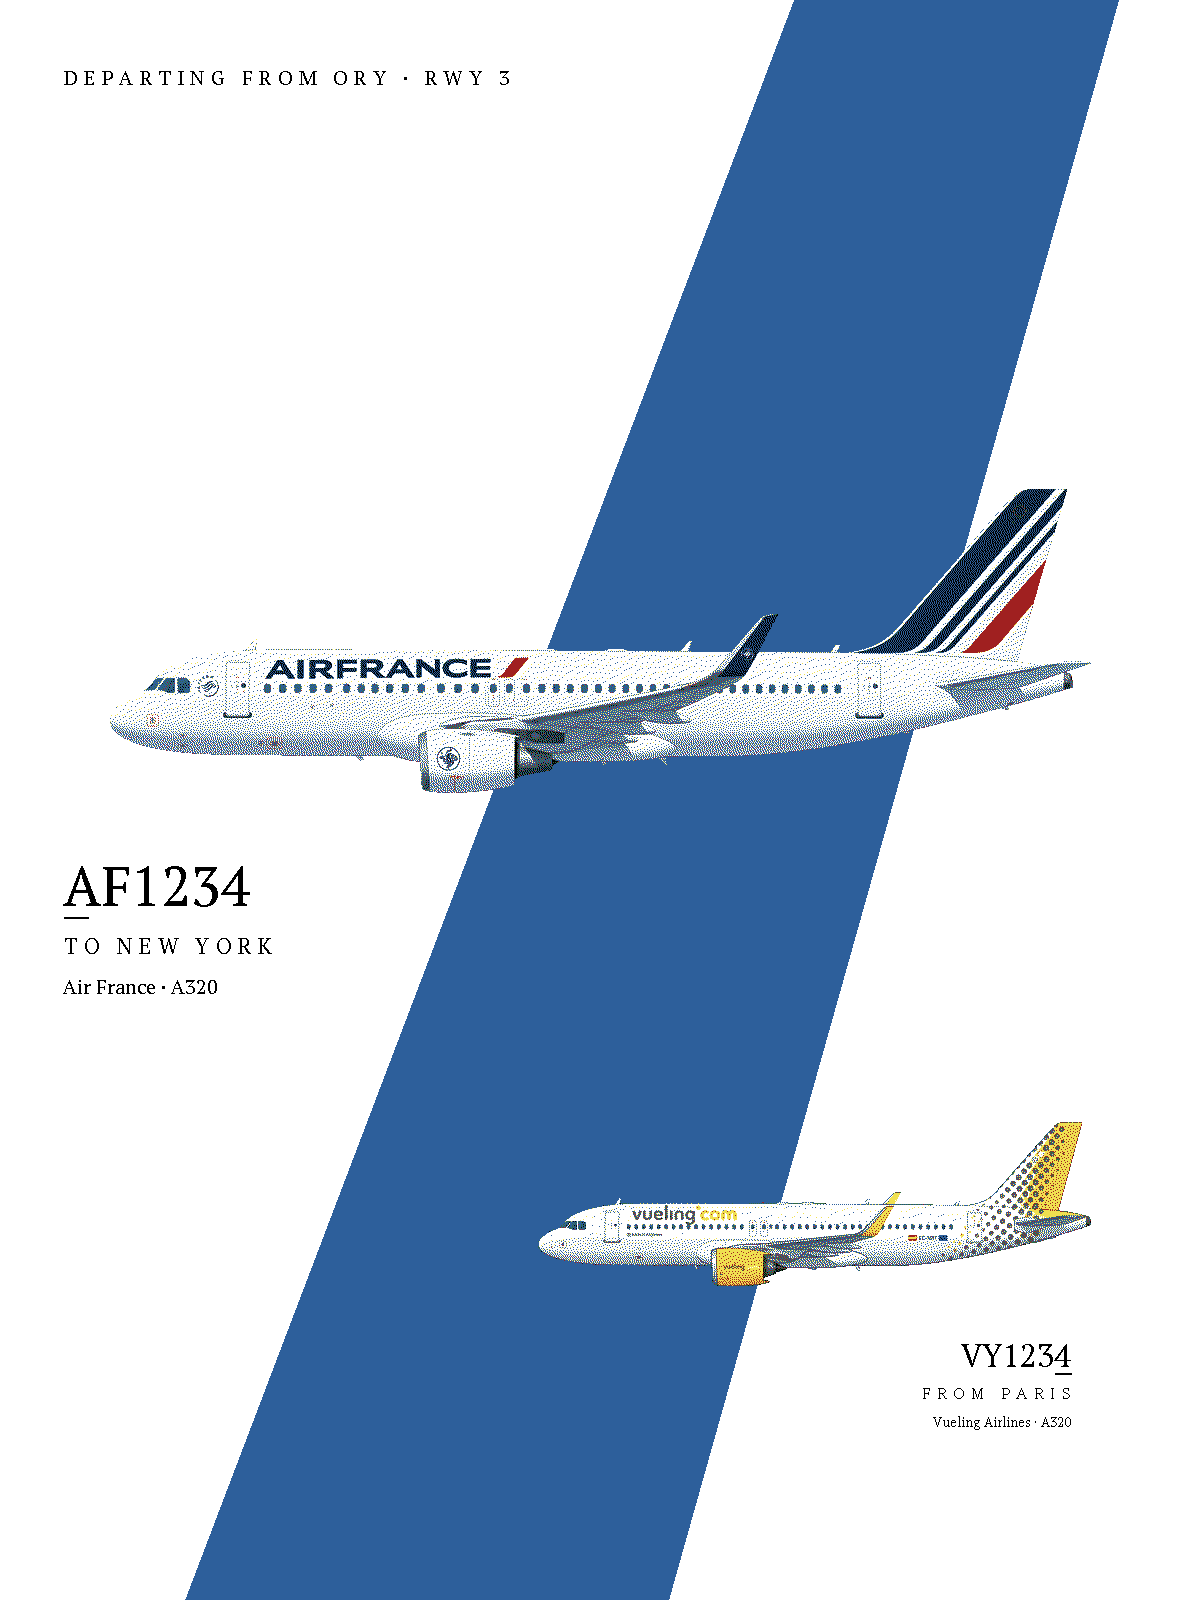
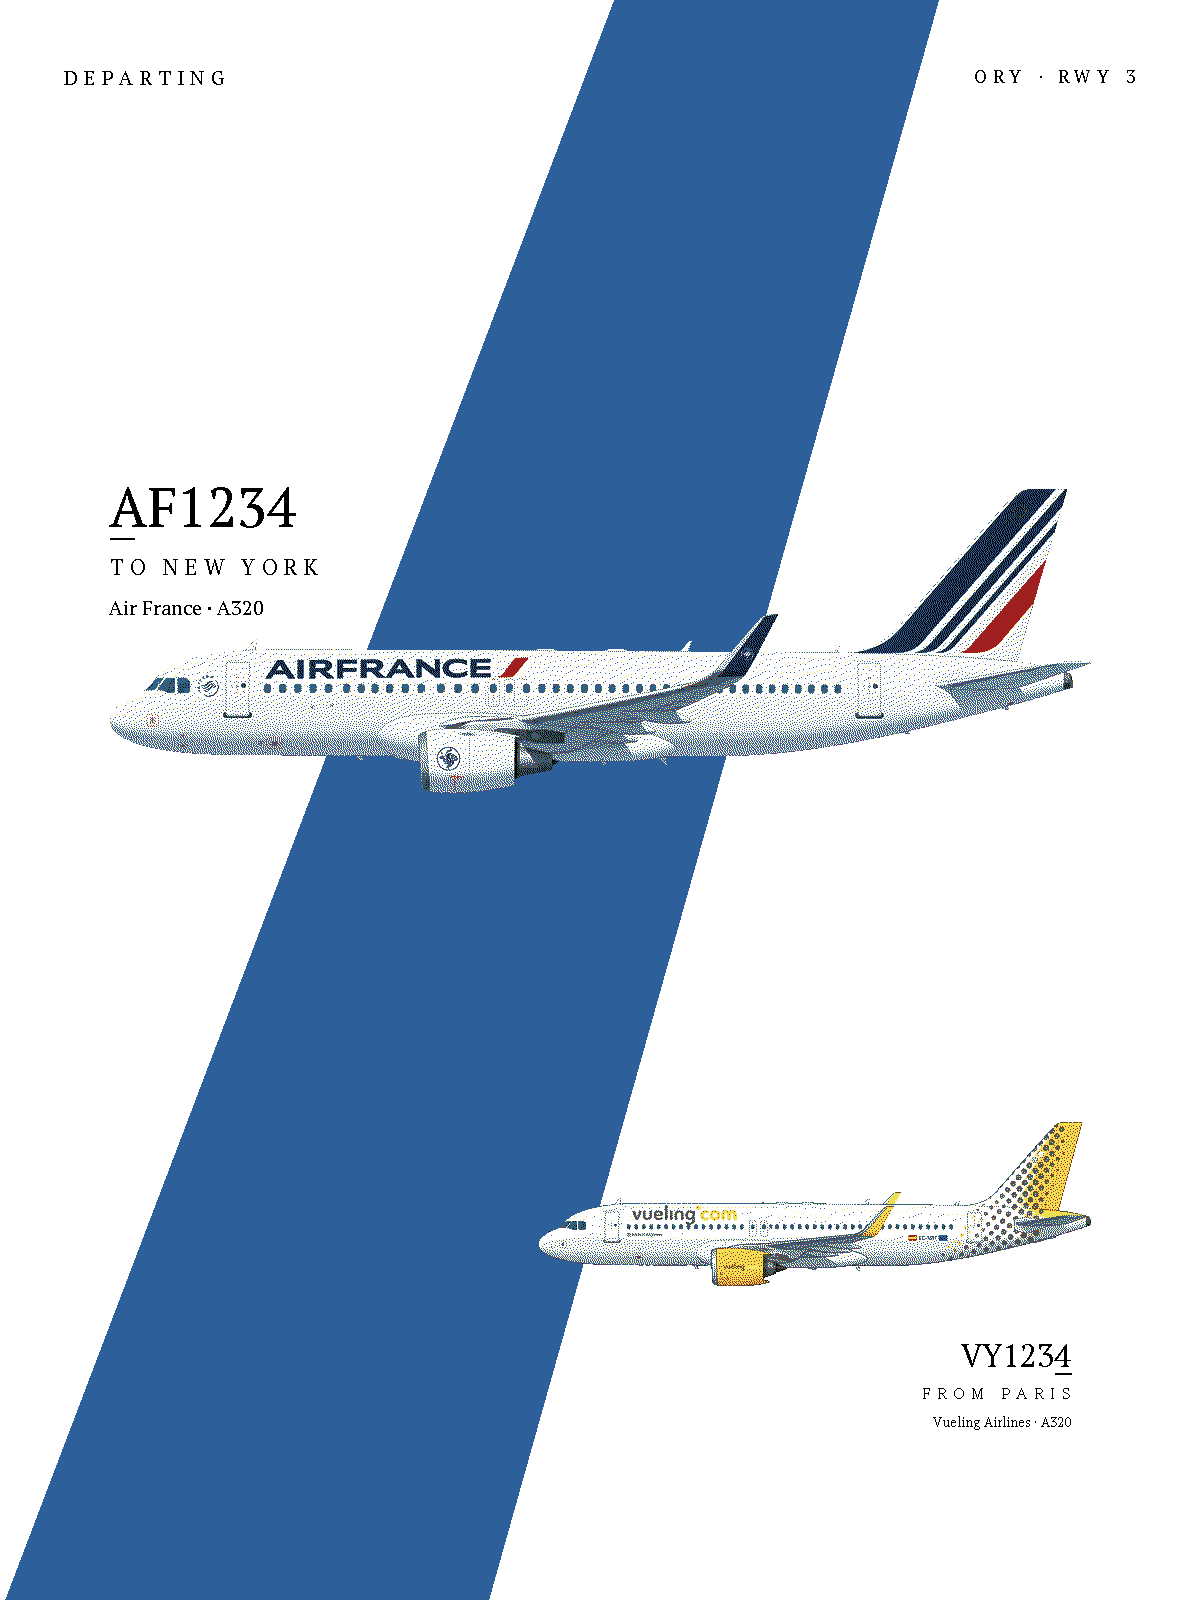
docs(spike-003): restore tag, nose-align text - catch and fix the reopened conflict
Developer: un-merge the top labels (RWY 3 back to its own tag), shift
the band left again (less than round 3), nose-align the main text
block. Un-merging is a pure revert of round 7's patch. Nose alignment
uses main_placement.content[0] directly - safe here since a side-view
nose is a filled shape, not the thin spike the tail tip was vertically.

Found before presenting anything: round 8 (text below) + round 9 (nose-
aligned, tag restored) together reopen the band collision - verified
numerically (band left edge ~24.5% vs text right edge ~33% at that
height), confirmed visually on black-flat (text genuinely cut). No
single BAND_SHIFT_FRAC clears both the tag and the below-position text
at once - the trapezoid's shape makes them mutually exclusive there.
Moved main text back above the illustration (round 5's anchor) - verified
numerically first, then visually on both blue-dithered and black-flat.

diff --git a/.planning/spikes/003-diagonal-band-theme/explore_full_composition.py b/.planning/spikes/003-diagonal-band-theme/explore_full_composition.py
@@ -64,14 +64,14 @@ TEST_PREV_ROUTE = {
 }
 
 # --- Band geometry, measured from the reference (trapezoid, not a parallelogram) ---
-# Round 7 (developer's new proposal): merge the top-right runway tag INTO
-# the top-left state label ("DEPARTING FROM ORY · RWY 3") instead of
-# shifting the band away from the tag - once nothing occupies the
-# top-right corner, the band is free to shift back right, further right
-# than the reference's own unshifted position even (BAND_SHIFT_FRAC=0
-# was the as-measured reference position; +0.08 goes past it). Still a
-# pure translation of the measured trapezoid, same width/shape.
-BAND_SHIFT_FRAC = 0.08
+# Round 9 (developer): un-merge the top labels again - RWY 3 goes back to
+# its own top-right tag - so the band needs to clear it once more, just
+# less drastically than round 3's -0.09: a smaller leftward shift keeps
+# more of round 7/8's rightward visual balance while still clearing the
+# tag's measured start (x_frac=0.8117) with a real margin. -0.07 puts the
+# band's top-right edge at 0.7823, a ~2.9pt margin. Still a pure
+# translation of the measured trapezoid, same width/shape.
+BAND_SHIFT_FRAC = -0.07
 BAND_TOP_LEFT_FRAC = 0.5818 + BAND_SHIFT_FRAC
 BAND_TOP_RIGHT_FRAC = 0.8523 + BAND_SHIFT_FRAC
 BAND_BOT_LEFT_FRAC = max(0.0, 0.0742 + BAND_SHIFT_FRAC)
@@ -191,7 +191,15 @@ def _fuselage_visual_top_y(route, aircraft_type, main_placement):
 
 def patched_draw_main_text_block(canvas, flight, state, route, main_placement, ink_idx, bg_idx, weight):
     draw = ImageDraw.Draw(canvas)
-    left_x = render.MARGIN
+    # Round 9 (developer): align the text block's left edge to the
+    # aircraft's own nose, not the canvas margin - main_placement.content[0]
+    # is the illustration's leftmost OPAQUE pixel column, i.e. the nose
+    # tip itself, the same ".content" (not ".rect") bbox every other
+    # measurement in this pipeline already trusts for "where the aircraft
+    # actually is" (unlike the vertical top edge, a side-view nose is a
+    # filled, rounded shape, not a thin spike, so this is a safe reuse -
+    # no separate width-profile analysis needed here).
+    left_x = main_placement.content[0]
 
     # The real content ladder, called verbatim - same functions, same
     # data, same never-shows-the-raw-callsign guarantee production uses.
@@ -229,16 +237,32 @@ def patched_draw_main_text_block(canvas, flight, state, route, main_placement, i
     route_font = render._role_font(ROUTE_LINE_FONT, weight)
     airline_font = render._role_font(AIRLINE_LINE_FONT, weight)
 
-    # Round 8 (developer): back below the illustration, now that round 7's
-    # merged top label freed the band to shift right instead of left -
-    # checked the band's position at this text block's height range
-    # (~50-55% canvas height): it now spans ~39-73% width, well clear of
-    # this left-anchored block's ~5-30% extent. No collision to dodge
-    # anymore, so no need for round 2/5's above-illustration workaround
-    # (or its measure-before-place / fuselage-visual-top machinery) -
-    # this is the real production draw_main_text_block()'s own anchor,
-    # MAIN_TEXT_GAP_PX below the illustration's opaque bottom edge.
-    y = main_placement.content[3] + render.MAIN_TEXT_GAP_PX
+    # Round 10 (developer): round 8 moved this block back below the
+    # illustration once round 7 freed the band to shift right - but round
+    # 9 un-merged the top labels again (band shifted back left, -0.07) AND
+    # nose-aligned this block's left edge (content[0] instead of MARGIN),
+    # and that combination reopens the collision round 8 had just closed:
+    # verified numerically, the band's left edge at this block's
+    # below-illustration height (~52% canvas height) sits at ~24.5% width,
+    # while the nose-aligned block's own right edge reaches ~33% - a real
+    # ~8pt overlap, confirmed visually on black-flat (text genuinely cut).
+    # There is no single BAND_SHIFT_FRAC that clears both the restored tag
+    # (needs the band pushed left) and this below-position nose-aligned
+    # text (needs the band pushed right) at once - the trapezoid's own
+    # shape makes the two constraints mutually exclusive here. Back above
+    # the illustration (round 5's fuselage-visual-top anchor, not
+    # content[1]) resolves both at once - verified numerically, band left
+    # edge stays 38-46% across that height range, clear of the
+    # nose-aligned block's ~35% max extent.
+    total_h = 0
+    if number_text:
+        total_h += draw.textbbox((0, 0), number_text, font=num_font, anchor="la")[3] + DASH_GAP + 2 + DASH_GAP + 4
+    if tracked_text:
+        total_h += render._tracked_text_bbox(route_font, (0, 0), tracked_text, render.LABEL_TRACKING_PX)[3] + 12
+    total_h += draw.textbbox((0, 0), plain_text, font=airline_font, anchor="la")[3]
+
+    fuselage_top_y = _fuselage_visual_top_y(route, flight.get("aircraft_type"), main_placement)
+    y = fuselage_top_y - ABOVE_ILLUSTRATION_GAP_PX - total_h
     first_bbox = None
 
     if number_text:
@@ -335,7 +359,6 @@ def patched_draw_previous_text_block(canvas, flight, state, route, prev_placemen
 def main():
     orig_draw_main_text_block = render.draw_main_text_block
     orig_draw_previous_text_block = render.draw_previous_text_block
-    orig_draw_top_labels = render.draw_top_labels
     candidates = [
         ("ref-band-blue-dithered", pf.IDX_BLUE, True),
         ("ref-band-blue-flat", pf.IDX_BLUE, False),
@@ -346,7 +369,9 @@ def main():
     try:
         render.draw_main_text_block = patched_draw_main_text_block
         render.draw_previous_text_block = patched_draw_previous_text_block
-        render.draw_top_labels = patched_draw_top_labels
+        # Round 9: top labels un-merged - the real, already-shipped
+        # draw_top_labels() (state label + separate tracked runway tag)
+        # runs unpatched again.
         for label, band_idx, dithered in candidates:
             pf.new_canvas = make_patched_new_canvas(band_idx, dithered)
             canvas = render.build_canvas(
@@ -366,7 +391,6 @@ def main():
     finally:
         render.draw_main_text_block = orig_draw_main_text_block
         render.draw_previous_text_block = orig_draw_previous_text_block
-        render.draw_top_labels = orig_draw_top_labels
         pf.new_canvas = _TRUE_ORIG_NEW_CANVAS
 
 

diff --git a/.planning/spikes/003-diagonal-band-theme/README.md b/.planning/spikes/003-diagonal-band-theme/README.md
@@ -9,7 +9,7 @@ validates: |
   build_canvas() pipeline, then at least one reads well on a 6-colour
   e-ink panel, passes the real _assert_legal_palette() background-
   dominance guard rail, and does not collide with any text.
-verdict: PENDING - round 8 moves the main card's text back below the aircraft (safe now the band shifted right), awaiting developer reaction
+verdict: PENDING - round 9 restores the tag/nose-aligns text, caught and fixed a real conflict this reopened (main text moved back above), awaiting developer reaction
 related: ["001-panel-theme-colours", "002-small-labels-and-white-rhythm"]
 tags: [render, theme, diagonal-band, layout, e-ink, palette-guard-rail]
 ---
@@ -299,6 +299,37 @@ problem the top edge did (this is the same anchor the shipped production
 function has always used). Confirmed clear on both the blue-dithered and
 black-flat candidates - the two extremes (softest and hardest edge
 against the band) - with no collision on either.
+
+**Round 9 - un-merge the top labels, nose-align the main text, smaller
+leftward shift.** Developer: bring RWY 3 back to its own top-right tag,
+shift the band left again (but less than round 3's -0.09), and align the
+main text block's left edge to the aircraft's nose instead of the canvas
+margin. Un-merging is a pure revert (stopped patching
+`draw_top_labels()`, the real shipped function runs as-is). Nose
+alignment uses `main_placement.content[0]` (the nose's own leftmost
+opaque pixel) - safe to reuse directly here, unlike the vertical case:
+a side-view nose is a filled, rounded shape, not a thin spike, so no
+separate width-profile analysis was needed. `BAND_SHIFT_FRAC` set to
+`-0.07` (top-right edge at 0.7823, a ~2.9pt margin below the tag's
+0.8117 start).
+
+**Found and fixed: round 8+9 together reopened the band collision.**
+Verified numerically before showing anything: with the main text block
+still below the illustration (round 8) AND now nose-aligned (round 9),
+the band's left edge at that height (~52% canvas height, ~24.5% width)
+sits well INSIDE the text block's own right edge (~33% width) - a real
+~8pt overlap, confirmed visually on `black-flat` (text genuinely cut:
+"AF123" without its "4", "TO NEW Y" without "ORK"). There is no single
+`BAND_SHIFT_FRAC` that clears both the restored tag (wants the band
+pushed left) and the below-position nose-aligned text (wants it pushed
+right) at once - the trapezoid's own shape makes the two constraints
+mutually exclusive at that text position. Moved the main block back
+above the illustration (round 5's `_fuselage_visual_top_y()` anchor,
+not round 8's below-anchor) - verified numerically this clears both
+constraints (band's left edge stays 38-46% across that height range,
+clear of the nose-aligned block's ~35% max extent), then confirmed
+visually on both `blue-dithered` and `black-flat`. Flagged explicitly
+rather than silently reverting the developer's own round-8 request.
 
 **Still open:**
 - This entire spike is screen-preview only, per this project's own D-13
